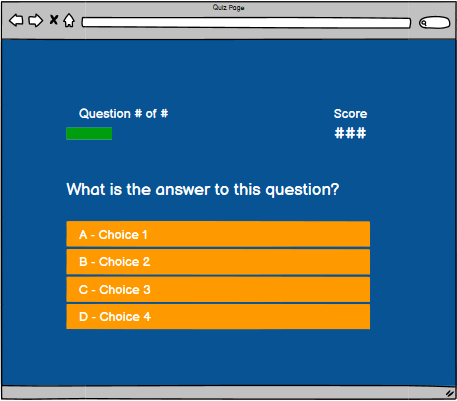
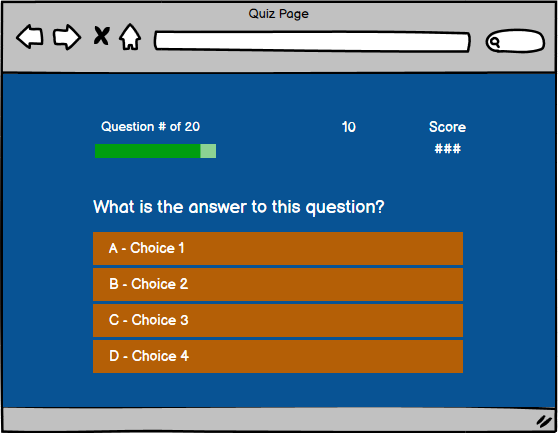
Redesigned quizpage view for all devices with updated features

diff --git a/game.js b/game.js
@@ -172,12 +172,12 @@ let questions = [
         answer: 3,
     },
     {
-        question: 'What is the value of the mathematical constant "e" rounded to three decimal places?',
-        choice1: '2.718',
-        choice2: '3.142',
-        choice3: '1.414',
-        choice4: '1.618',
-        answer: 1,
+        question: 'Which physicist is known for the Uncertainty Principle?',
+        choice1: 'Albert Einstein',
+        choice2: 'Isaac Newton',
+        choice3: 'Werner Heisenberg',
+        choice4: 'Niels Bohr',
+        answer: 3,
     }
 ]
 

diff --git a/README.md b/README.md
@@ -43,6 +43,14 @@
 
 - Mobile-Friendly: The game is optimized for various devices, ensuring that the experience is consistent and enjoyable whether played on a desktop, tablet, or smartphone.
 
+## 6. 10 Seconds timer on each question
+
+- Pressure and Excitement: A time limit adds pressure, making the game more challenging and exciting. Players must think quickly, which can enhance the overall thrill of the game.
+
+- Uniform Experience: A consistent time limit ensures that all players have the same amount of time to answer each question, making the game fairer and more standardized.
+
+- Limits Cheating Opportunities: The time constraint reduces the likelihood of players searching for answers online or consulting external resources, as they don't have enough time to do so within 10 seconds.
+
 
 # User Stories
 
@@ -70,6 +78,8 @@
 # Features
 
 - 20 Challenging Questions: Test your knowledge with a variety of questions from different subjects.
+
+- 10 seconds timer on each question for a more engaged and exciting UX.
 
 - Real-Time Scoring: Your score is displayed as you answer each question, giving you instant feedback.
 
@@ -346,6 +356,8 @@ __9__ - __Progress Bar Display Issues__
 __10__ - __Local Storage Limits__
 
 - Description: The leaderboard data is stored in the browser's local storage, which has size limitations. Over time, this may cause issues with saving new scores.
+
+- The timer function inclusion also helps on potential timeout and session timeout issues.
 
 - Workaround: Clear your browser’s local storage periodically, but be aware that this will also delete your saved leaderboard data.
 
